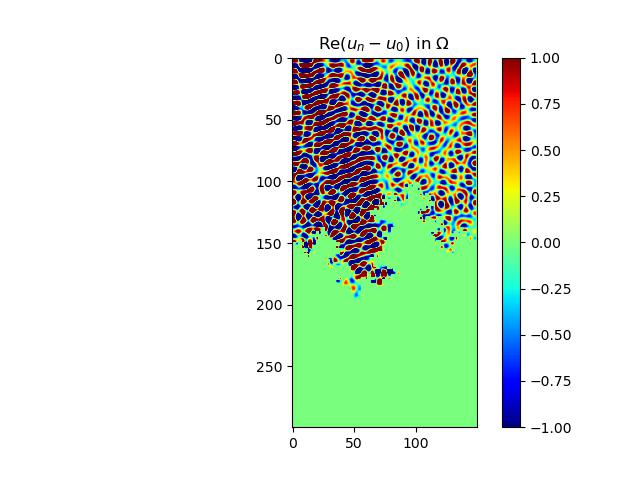
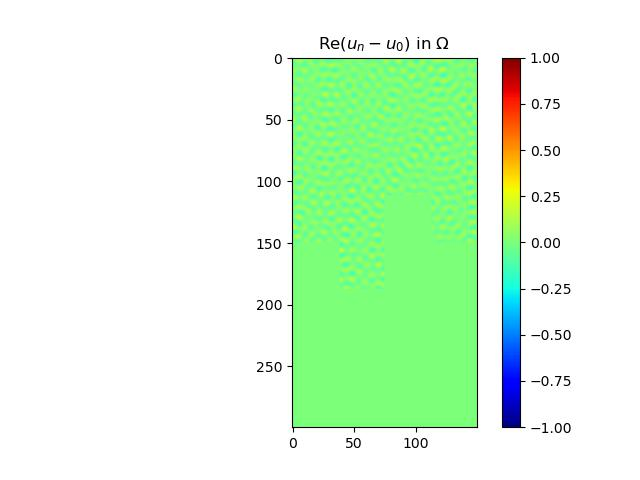
pour les deux

Changed region(s): [[0.4375, 0.0938, 0.75, 0.625]]

diff --git a/demo_control_polycopie.py b/demo_control_polycopie.py
@@ -1,5 +1,8 @@
 # -*- coding: utf-8 -*-
-
+import os
+from datetime import datetime
+import pandas as pd
+import numpy as _np
 
 # Python packages
 import matplotlib.pyplot
@@ -13,7 +16,8 @@ import preprocessing
 import processing
 import postprocessing
 #import solutions
-
+import sys
+numpy.set_printoptions(threshold=sys.maxsize)
 
 def is_in_interest_domain(i, j):
     """
@@ -178,7 +182,7 @@ if __name__ == '__main__':
     # -- set parameters of the geometry
     N = 150  # number of points along x-axis
     M = 2 * N  # number of points along y-axis
-    level = 3 # level of the fractal
+    level = 1 # level of the fractal
     spacestep = 1.0 / N  # mesh size
 
     # -- set parameters of the partial differential equation
@@ -224,7 +228,37 @@ if __name__ == '__main__':
     Alpha = 10.0 - 10.0 * 1j
     # -- this is the function you have written during your project
     import alphaget
-    Alpha = alphaget.find_alpha_for_frequency(wavenumber*3e8, g)[0]
+    from compute_alpha import compute_alpha
+
+    materials =  {
+        'charged foam': { #mousse de polyuréthane dopée avec 11.2% (en poids) de nanotubes de carbone, une configuration typique pour un absorbant diélectrique
+            "eps_r" : 8.65 ,
+            "mu_r" : 1.0,
+            "sigma" : 0.205 ,
+            "c_0" : 3e8 
+        },
+        'concrete': { 
+            "eps_r" : 5.24 ,
+            "mu_r" : 1.0,
+            "sigma" : 0.00462 ,
+            "c_0" : 3e8 
+        },
+        'ferrite': { #nickel-zinc ferrite
+            "eps_r" : 10.5 ,
+            "mu_r" : 10,
+            "sigma" : 0.05 ,
+            "c_0" : 3e8 
+        }
+    }
+    material = materials['charged foam']
+    eps_r = material['eps_r']
+    mu_r = material['mu_r']
+    sigma = material['sigma']
+    c_0 = material['c_0']
+    omega = wavenumber * c_0
+
+
+    Alpha = compute_alpha(omega, eps_r, mu_r, sigma, c_0)
     alpha_rob = Alpha * chi
 
     # -- set parameters for optimization
@@ -234,8 +268,9 @@ if __name__ == '__main__':
             if domain_omega[i, j] == _env.NODE_ROBIN:
                 S += 1
     V_0 = 1  # initial volume of the domain
-    #V_obj = numpy.sum(numpy.sum(chi)) / S  # constraint on the density
-    V_obj =  200  # desired volume fraction
+
+    beta = 0.5 # volume fraction
+    V_obj =  S*beta  # desired volume 
     mu = 1  # initial gradient step
     mu1 = 10**(-5)  # parameter of the volume functional
 
@@ -266,7 +301,7 @@ if __name__ == '__main__':
 
 
 
-
+    
     # build a binary design by keeping the largest V_obj values of chi
     (M, N) = numpy.shape(domain_omega)
     total_cells = M * N
@@ -302,7 +337,6 @@ if __name__ == '__main__':
 
     # gradient and energy for the final design
     grad = -1 * np.real(Alpha * u * p)
-    
 
   
 
@@ -322,7 +356,7 @@ if __name__ == '__main__':
     print('Chi sum:', numpy.sum(numpy.sum(chin)))
     # -- plot chi, u, and energy
     print(f"Final energy of the $\chi$ projected")
-    energy = np.append(energy,np.real(compute_objective_function(domain_omega, u, spacestep, mu1, V_0)))
+    #energy = np.append(energy,np.real(compute_objective_function(domain_omega, u, spacestep, mu1, V_0)))
     postprocessing._plot_uncontroled_solution(u0, chi0)
     postprocessing._plot_controled_solution(un, chin)
     err = un - u0
